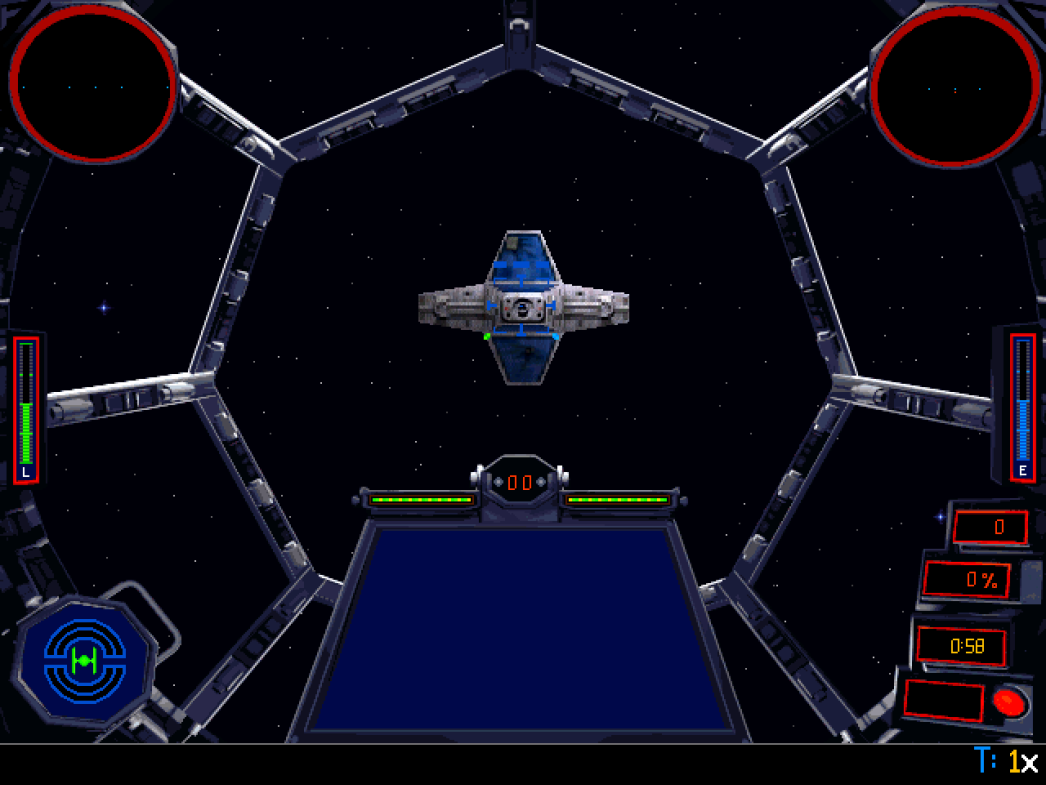
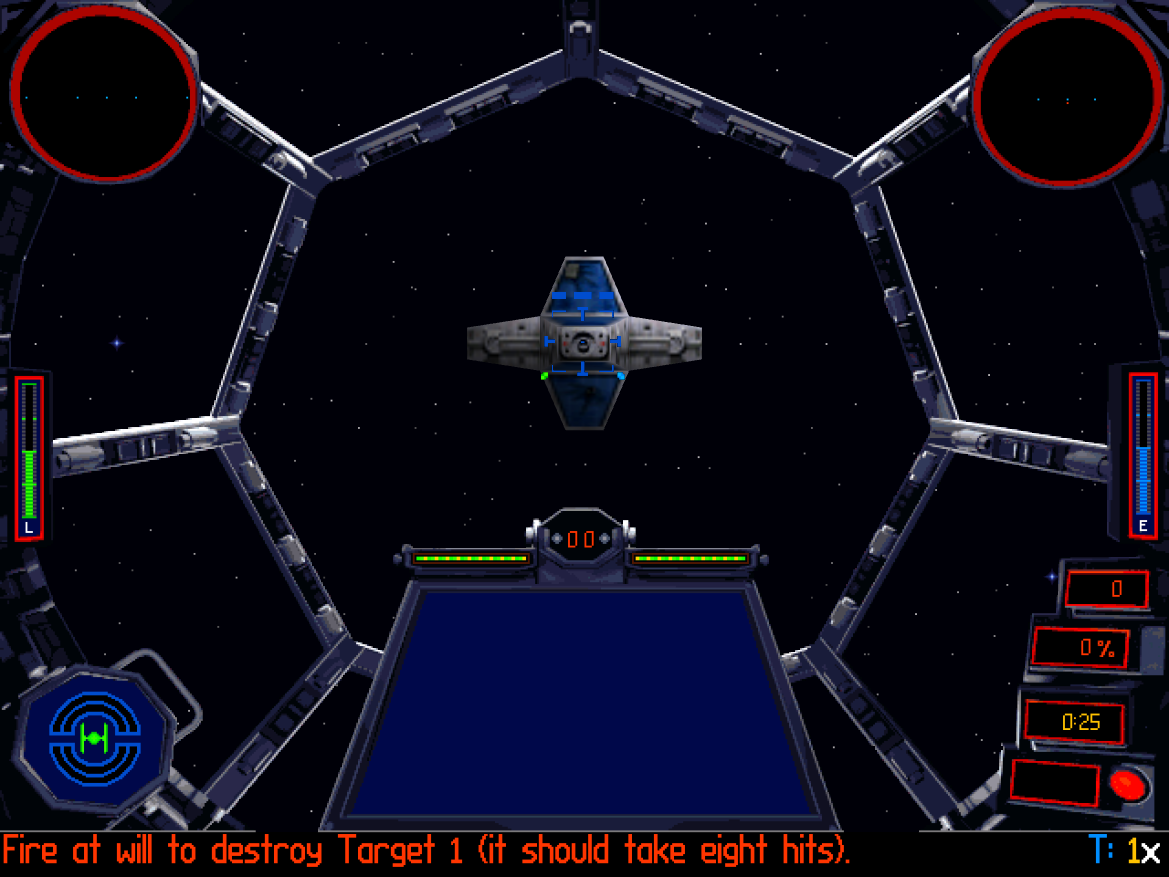
High-resolution 3D: TIE's Direct3D mode switched on
foption.cfg keeps the display mode as a dword after its 0x3A bytes of
options (0 320x200, 1 640x480x8, 2 640x480x16, 3 Direct3D, mode 0x1FF);
the host sets 3 at start (F10 switches back). The game's 3D then runs on
X-Wing's IDirect3D layer and gpu.c, at the window's resolution.

diff --git a/src/runtime/settings.c b/src/runtime/settings.c
@@ -1,4 +1,4 @@
-/*
+/*
  * settings: the remaster's options, kept in tie.ini beside the program.
  *
  *   F10            the settings menu (also right-click outside the picture)
@@ -102,14 +102,16 @@ void settings_menu(HWND w, int x, int y) {
  * 2 640x480x16, 3 3D hardware) but never writes a changed one back: the mode
  * is set there before the game reads it. */
 void settings_apply_prefs(void) {
-    HANDLE f = CreateFileA("prefs.cfg", GENERIC_READ | GENERIC_WRITE, 0, NULL, OPEN_EXISTING, 0, NULL);
+    /* TIE: foption.cfg is 0x3A bytes of options, then the display mode as a
+     * dword (0 320x200, 1 640x480x8, 2 640x480x16, 3 Direct3D). */
+    HANDLE f = CreateFileA("foption.cfg", GENERIC_READ | GENERIC_WRITE, 0, NULL, OPEN_EXISTING, 0, NULL);
     if (f == INVALID_HANDLE_VALUE) return;
     unsigned char b[0x60];
     DWORD n = 0;
-    if (ReadFile(f, b, sizeof b, &n, NULL) && n > 0x1B) {
+    if (ReadFile(f, b, sizeof b, &n, NULL) && n >= 0x3E) {
         unsigned char want = g_hw3d ? 3 : 2;
-        if (b[0x1B] != want) {
-            b[0x1B] = want;
+        if (b[0x3A] != want) {
+            b[0x3A] = want;
             SetFilePointer(f, 0, NULL, FILE_BEGIN);
             WriteFile(f, b, n, &n, NULL);
         }

diff --git a/src/runtime/settings.h b/src/runtime/settings.h
@@ -3,7 +3,7 @@
 #include <windows.h>
 
 extern int g_flight_mouse, g_flight_pad, g_mods, g_hw3d;
-void settings_apply_prefs(void);   /* the game's display mode in prefs.cfg (cwd = game folder) */
+void settings_apply_prefs(void);   /* the game's display mode in foption.cfg (cwd = game folder) */
 
 void settings_load(void);
 void settings_save(void);

diff --git a/README.md b/README.md
@@ -12,9 +12,8 @@ You supply your own copy of the game. Nothing from it is in this repo.
 
 **Alpha.** Flies. Boots, plays the intro, registers a pilot, walks the
 Imperial concourse, plays the Combat Chamber briefing and flies mission 1
-(TIE Fighter Combat #1: Gunnery) in the TIE cockpit. Sound plays. The 3D is
-still the game's software renderer: TIE's own Direct3D mode is not switched on
-yet (ROADMAP.md).
+(TIE Fighter Combat #1: Gunnery) in the TIE cockpit, in the game's Direct3D
+mode drawn at the window's resolution. Sound plays.
 
 ![In flight](docs/screenshots/flight.png)
 ![Concourse](docs/screenshots/concourse.png)

diff --git a/ROADMAP.md b/ROADMAP.md
@@ -2,7 +2,7 @@
 
 - [x] Boots, intro, registration, concourse, briefing, flight (Combat Chamber mission 1)
 - [x] Sound (DirectSound and MUSIC.dll, measured with --sound-log)
-- [ ] High-resolution 3D: switch on TIE's Direct3D mode (its options live in
-      foption.cfg, not X-Wing's prefs.cfg; the strings ask for Direct3D 2.0)
+- [x] High-resolution 3D: TIE's Direct3D mode (display mode 3 in foption.cfg)
+      drawn by gpu.c at the window's resolution
 - [ ] A whole mission flown; the campaign (Tour of Duty)
 - [ ] Everything on X-Wing's remaster roadmap (widescreen, OPT conversion)
